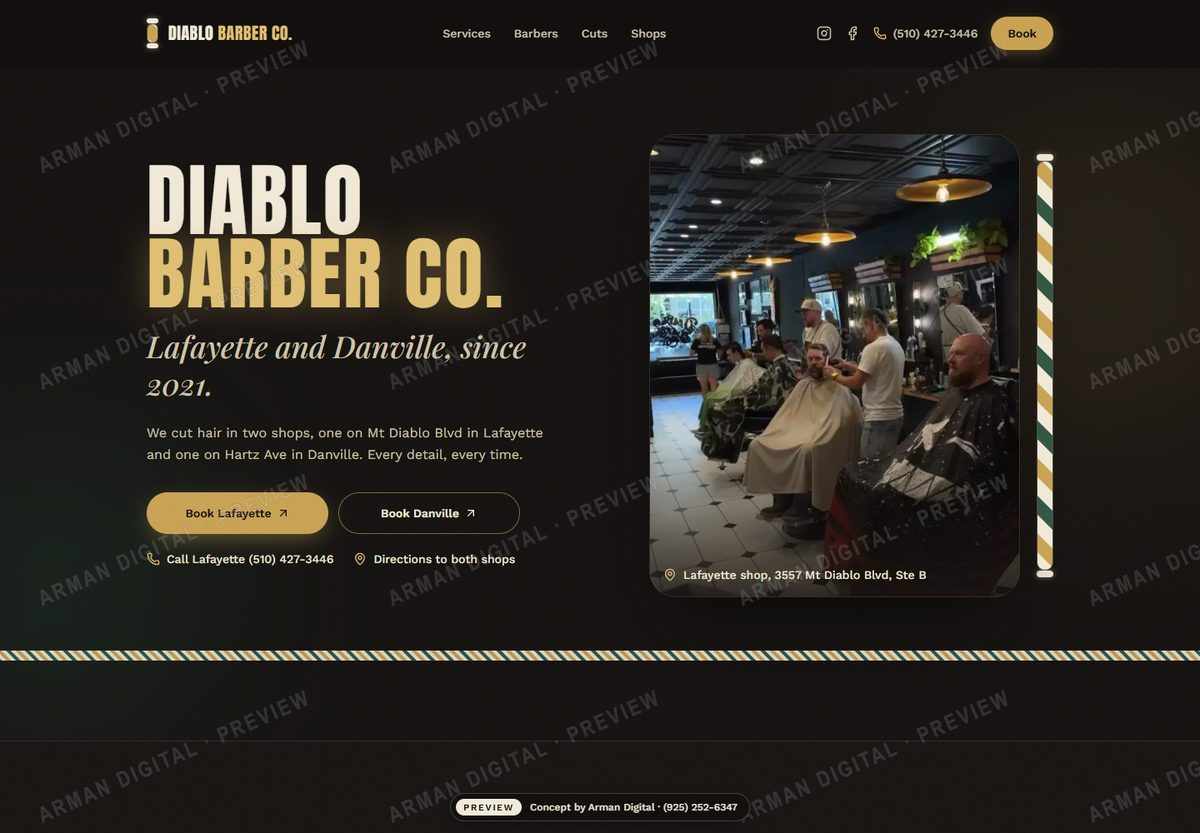
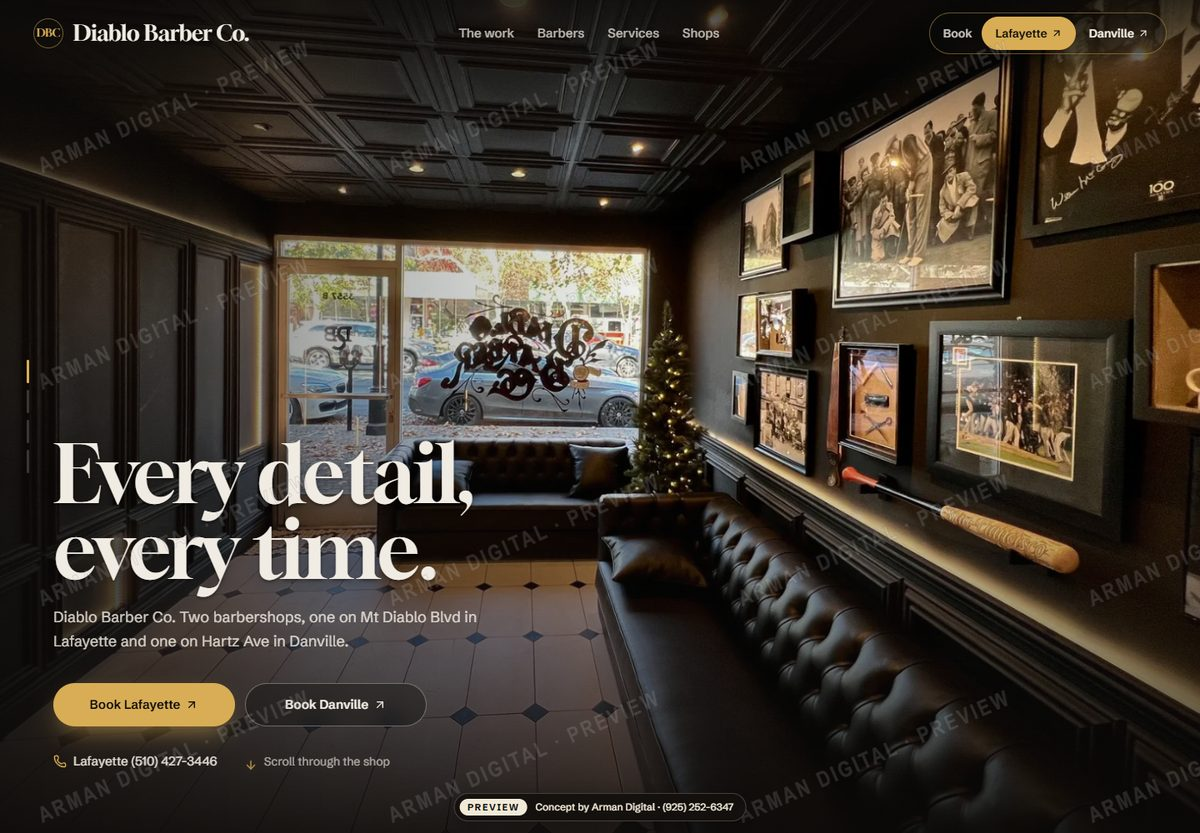
Portfolio: refresh 4 Lafayette demo cards after redesign
Elizabeth Hair Design, Diablo Barber Co., Gel Nails Spa and The Rising Loafer were
redesigned and are live with the new look. New 1440x1000 screenshots of each live site
(after the hero intro settles), saved at 1200 and 640 widths, and EN + ES card lines,
write-ups and chips rewritten for what each page does now: Elizabeth's color-family
mirror, Diablo's walk through the shop and hand mirror, Gel Nails' pick-a-color wall of
66 real sets, and Rising Loafer's printed breakfast menu as a plate builder.

diff --git a/src/data/work.es.ts b/src/data/work.es.ts
@@ -308,31 +308,31 @@ export const workEs: Record<string, { category: string; short: string; summary: 
   },
   "elizabeth-hair-design": {
     category: "Salón de belleza · Concepto",
-    short: "Color y peinados de novia en Lafayette. Sus rojos, sus foils y sus novias, con sus propias palabras.",
+    short: "Color y peinados de novia en Lafayette. Tocas un color de cabello y el espejo cambia a su trabajo en ese color.",
     summary:
-      "Un sitio conceptual para una estilista de Lafayette en Golden Gate Way que hace color a la medida, luces, difuminado de canas, cortes y peinados de novia. Sus fotos cambian mientras bajas, cada servicio va escrito con sus propias palabras y un enlace a la publicación, y para hacer cita es una llamada.",
-    deliverables: ["Fotos que cambian al bajar", "Servicios con sus propias palabras", "Llama para hacer tu cita", "Hecho para el celular, ya en línea"],
+      "Un sitio conceptual para una estilista de Lafayette en Golden Gate Way que hace color a la medida, luces, difuminado de canas, cortes y peinados de novia. Abre con su nombre en letra cursiva, como lo escribe su letrero, sobre sus propias ondas oscuras. Tocas Rubio, Castaño, Rojo, Violeta o Difuminado de canas y el espejo pasa a sus fotos de ese color mientras toda la página toma el color del cabello. Después vienen la historia de su corte bob asimétrico, sus novias y su local, con sus propias palabras y sus propias fotos. Para hacer cita es una llamada.",
+    deliverables: ["Espejo por familia de color", "Sus propias fotos y palabras", "Llama para hacer tu cita", "Hecho para el celular, ya en línea"],
   },
   "diablo-barber-co": {
     category: "Barbería · Concepto",
-    short: "Barberías en Lafayette y Danville. Los dos locales y sus barberos en una sola página.",
+    short: "Barberías en Lafayette y Danville. Bajas y recorres el local, luego revisas un corte con el espejo de mano.",
     summary:
-      "Un sitio conceptual para una barbería con dos locales, en Mt Diablo Blvd en Lafayette y en Hartz Ave en Danville, cortando desde 2021. Sus propias fotos de Instagram, sus barberos con sus propias palabras, cortes, arreglo de barba y afeitado con toalla caliente, y un botón de Vagaro para reservar en cada local.",
-    deliverables: ["Dos locales, una página", "Barberos con sus propias palabras", "Reserva en Vagaro", "Hecho para el celular, ya en línea"],
+      "Un sitio conceptual para una barbería con dos locales, en Mt Diablo Blvd en Lafayette y en Hartz Ave en Danville, abierta desde 2021. Al bajar recorres el local de Lafayette: la entrada con los sillones de piel, el área de corte, la barra con su grifo y sus tazas DBC, y la pared con máquinas antiguas. Luego mueves un espejo de mano sobre un corte terminado para verlo de cerca en la foto a tamaño completo. Sus cortes en un carrusel que deslizas, sus barberos con sus propias palabras, cortes, arreglo de barba y afeitado con toalla caliente, y un botón de Vagaro para reservar en cada local.",
+    deliverables: ["Recorre el local al bajar", "Espejo de mano sobre cortes reales", "Reserva en Vagaro en cualquier local", "Hecho para el celular, ya en línea"],
   },
   "gel-nails-spa": {
     category: "Salón de uñas · Concepto",
-    short: "Salón de uñas en Lafayette. Escoge un color y la mano en la mesa lo lleva puesto.",
+    short: "Salón de uñas en Lafayette. Sus 66 diseños reales en un muro. Escoge un color y ves solo los de ese color.",
     summary:
-      "Un sitio conceptual para un salón de uñas en el centro de Lafayette, dibujado como su mesa de uñas vista desde arriba, en el verde lima y el rojo de su letrero. Escoges un color de gel y un tono de piel y la mano dibujada lo lleva puesto, junto a sus fotos reales de uñas de Google, su calificación de 4.7 en Google, el horario de hoy y una llamada para hacer cita. Se aceptan clientes sin cita.",
-    deliverables: ["Prueba un color en la mano", "Fotos reales de uñas", "Abierto ahorita y horario", "Llama o llega sin cita"],
+      "Un sitio conceptual para un salón de uñas en el centro de Lafayette, hecho con 66 de sus propios diseños de su página de Google. La primera pantalla es su letrero rojo y verde lima sobre un muro de sus diseños que se va moviendo, y luego el salón se abre a pantalla completa. Escoges un color en el muro de uñas, el color cubre toda la sección y solo quedan los diseños de ese color. Tocas uno para verlo en grande, o guardas los que te gustan para enseñarlos cuando llegues. Su calificación de 4.7 en Google, el horario de hoy y una llamada para hacer cita. Se aceptan clientes sin cita.",
+    deliverables: ["Muro de uñas por color", "66 de sus diseños reales", "Abierto ahorita y horario", "Llama o llega sin cita"],
   },
   "rising-loafer": {
     category: "Café y panadería · Concepto",
-    short: "Café y panadería en Lafayette. Una barra al lado sube como la masa mientras bajas.",
+    short: "Café y panadería en Lafayette. Tocas un platillo de su menú de desayunos real y armas tu plato, con todo y total.",
     summary:
-      "Un sitio conceptual para un café y panadería de Lafayette, un Green Certified Business, hecho con su propio Instagram: panes de ajonjolí ya crecidos en el molde, el combo de pancakes de 9 granos, el sándwich de pollo Loafer y pan dulce horneado por encargo. Una barra al lado de la página sube como la masa mientras bajas.",
-    deliverables: ["Barra que sube como la masa", "Favoritos de sus propias publicaciones", "Llama o saca la ruta", "Hecho para el celular, ya en línea"],
+      "Un sitio conceptual para un café y panadería de Lafayette, un Green Certified Business. Abre en su propio comedor amarillo bajo las letras de bronce de su letrero, y al bajar el menú sube sobre el comedor. Su menú impreso de desayunos, los 14 platillos leídos de una foto del menú, sirve para armar tu plato: tocas un platillo, ves qué lleva, escoges The Loafers' Potatoes o fruta fresca y los extras, y el total va subiendo. Cada platillo conserva las nubes de CO2 del menú impreso. Después vienen su pan, su repostería y fotos de su comida, y termina con su letrero.",
+    deliverables: ["Arma tu plato de desayuno", "Su menú impreso real", "Llama o saca la ruta", "Hecho para el celular, ya en línea"],
   },
   "kold-krate": {
     category: "Tinas frías de secuoya · Concepto",

diff --git a/src/data/work.ts b/src/data/work.ts
@@ -540,10 +540,10 @@ export const work: CaseStudy[] = [
     client: "Elizabeth Hair Design",
     category: "Hair Salon · Concept",
     group: "beauty",
-    short: "Lafayette color and bridal hair. Her reds, foils and brides, in her own words.",
+    short: "Lafayette color and bridal hair. Tap a hair color and the mirror switches to her work in it.",
     summary:
-      "A concept site for a Lafayette stylist on Golden Gate Way who does custom color, highlights, gray blending, cuts and bridal hair. Her photos change as you scroll, every service is written in her own words with a link to the post, and booking is one call.",
-    deliverables: ["Scroll-through photo stage", "Services in her own words", "Call to book", "Mobile-first, live on the web"],
+      "A concept site for a Lafayette stylist on Golden Gate Way who does custom color, highlights, gray blending, cuts and bridal hair. It opens on her name in script, the way her sign spells it, over her own dark waves. Tap Blonde, Brunette, Red, Violet or Gray blending and the mirror wipes to her photos of that color while the whole page takes on the color of the hair. Then her asymmetrical bob story, her brides and her storefront, in her own words and her own photos. Booking is one call.",
+    deliverables: ["Color-family mirror", "Her own photos and words", "Call to book", "Mobile-first, live on the web"],
     liveUrl: "https://elizabeth-hair-design.vercel.app",
     status: "live",
   },
@@ -552,10 +552,10 @@ export const work: CaseStudy[] = [
     client: "Diablo Barber Co.",
     category: "Barbershop · Concept",
     group: "beauty",
-    short: "Barbershops in Lafayette and Danville. Both shops and their barbers on one page.",
+    short: "Lafayette and Danville barbershops. Scroll to walk through the shop, then check a cut with the hand mirror.",
     summary:
-      "A concept site for a barbershop with two locations, Mt Diablo Blvd in Lafayette and Hartz Ave in Danville, cutting since 2021. Their own Instagram photos, their barbers in their own words, cuts, beard trims and hot towel shaves, and a Vagaro booking button for each shop.",
-    deliverables: ["Two shops, one page", "Barbers in their own words", "Book on Vagaro", "Mobile-first, live on the web"],
+      "A concept site for a barbershop with two locations, Mt Diablo Blvd in Lafayette and Hartz Ave in Danville, open since 2021. Scroll and you walk through the Lafayette shop: the front room with the leather couches, the floor, the bar with a tap and their DBC mugs, and the wall of old clippers. Then move a hand mirror over a finished cut to see it up close from the full size photo. Their cuts on a swipe rail, their barbers in their own words, cuts, beard trims and hot towel shaves, and a Vagaro booking button for each shop.",
+    deliverables: ["Walk through the shop as you scroll", "Hand mirror on real cuts", "Book either shop on Vagaro", "Mobile-first, live on the web"],
     liveUrl: "https://diablo-barber-co.vercel.app",
     status: "live",
   },
@@ -564,10 +564,10 @@ export const work: CaseStudy[] = [
     client: "Gel Nails Spa",
     category: "Nail Salon · Concept",
     group: "beauty",
-    short: "Lafayette nail salon. Pick a color and the hand on the nail table wears it.",
+    short: "Lafayette nail salon. Their 66 real sets on one wall. Pick a color and see only the ones in it.",
     summary:
-      "A concept site for a nail salon in downtown Lafayette, drawn as their nail table from above in the lime and red of their sign. Pick a gel color and skin tone and the drawn hand wears it, next to their real nail photos from Google, their 4.7 Google rating, today's hours and a call to book. Walk-ins welcome.",
-    deliverables: ["Try-a-color hand preview", "Real nail photos", "Open now and hours", "Call or walk in"],
+      "A concept site for a nail salon in downtown Lafayette, built from 66 of their own sets on their Google page. The first screen is their red and lime sign over a wall of their sets drifting by, then the salon opens up full screen. Pick a color on the nail wall and it spreads over the whole section and leaves only the sets in that color. Tap one to see it big, or save the ones you like to show when you come in. Their 4.7 Google rating, today's hours and a call to book. Walk-ins welcome.",
+    deliverables: ["Pick-a-color nail wall", "66 of their real sets", "Open now and hours", "Call or walk in"],
     liveUrl: "https://gel-nails-spa.vercel.app",
     status: "live",
   },
@@ -576,10 +576,10 @@ export const work: CaseStudy[] = [
     client: "The Rising Loafer Cafe & Bakery",
     category: "Café & Bakery · Concept",
     group: "food",
-    short: "Lafayette cafe and bakery. A gauge on the side rises like dough as you scroll.",
+    short: "Lafayette cafe and bakery. Tap a dish on their real breakfast menu and build your plate, total and all.",
     summary:
-      "A concept site for a Lafayette cafe and bakery, a Green Certified Business, built from their own Instagram: sesame loaves risen in the pan, the 9 grain pancake combo, the Loafer chicken sandwich and pastry baked to order. A gauge on the side of the page rises like dough as you scroll down.",
-    deliverables: ["Rising-dough scroll gauge", "Favorites from their own posts", "Call or get directions", "Mobile-first, live on the web"],
+      "A concept site for a Lafayette cafe and bakery, a Green Certified Business. It opens in their own yellow dining room under the bronze sign letters, and the menu slides up over the room as you scroll. Their printed breakfast menu, all 14 dishes read from a photo of it, works as a plate builder: tap a dish, see what goes on it, pick The Loafers' Potatoes or fresh fruit and add-ons, and the total rolls up. Each dish keeps the CO2 clouds from the printed menu. Then their bread, pastry and food photos, and it ends on their sign.",
+    deliverables: ["Breakfast plate builder", "Their real printed menu", "Call or get directions", "Mobile-first, live on the web"],
     liveUrl: "https://rising-loafer.vercel.app",
     status: "live",
   },
